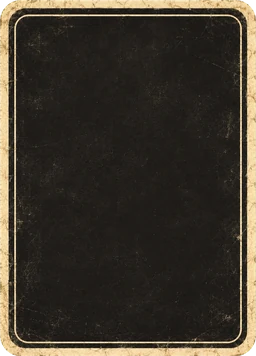
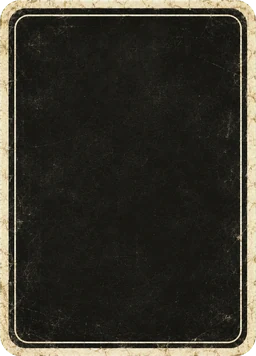
feat(cards): back in exactly the faces' colours with a big emblem; no contour on a selected card
Owner, 2026-11-14: the back's body and cream are mapped onto the face cards'
own two tones, the emblem takes the faces' cream at two thirds of the width,
and a hand card never shows a CSS border or selection outline beside its
printed frame (it tripled on a selected card). The lift and playable glow
mark selection; the keyboard focus ring is kept.

Claude-Session: https://claude.ai/code/session_01XsPB3NUazKsaRfy7iabhzE

diff --git a/web/src/ui/instrument.css b/web/src/ui/instrument.css
@@ -19,10 +19,13 @@ html.futasaku-product :is(.world-chat-who,.match-chat-meta,.match-chat-status,.w
 }
 /* Preserve the fan, lift and tutorial cues; selected cards already carry .lifted. */
 html.futasaku-product #hand:has(.card.lifted) .card:not(.lifted):not(.dim):not(.tutorial-target-card) { opacity: .82; }
-html.futasaku-product #hand .card.lifted:not(:focus-visible) {
-  outline: 1px solid var(--instrument-selection);
-  outline-offset: 1px;
-}
+/* NO CONTOUR ON A CARD, SELECTED OR NOT (owner, 2026-11-14: "never do the contour frame when
+   selected - and especially never double"). The 2026-11-14 cards print their own frame; a CSS
+   border or outline beside it doubled it. The lift (and the playable glow) says "selected"; the
+   keyboard focus ring (:focus-visible) is kept. */
+html.futasaku-product #hand .card,
+html.futasaku-product #hand .card:is(.lifted, .playable) { border-color: transparent; }
+html.futasaku-product #hand .card.lifted:not(:focus-visible) { outline: none; }
 html.reduce-motion :is(.acct-btn,.world-corner,.world-chat-send,.world-chat-mod button,.match-chat button):active:not(:disabled):not([data-pressed="true"]) { transform: none; }
 @media(prefers-reduced-motion:reduce) {
   html.futasaku-product :is(.acct-btn,.world-corner,.world-chat-send,.world-chat-mod button,.match-chat button):active:not(:disabled):not([data-pressed="true"]) { transform:none; }

diff --git a/scripts/build-card-art-2.py b/scripts/build-card-art-2.py
@@ -54,6 +54,23 @@ def card_image(rgba: np.ndarray, box) -> Image.Image:
     return Image.fromarray(np.dstack([np.clip(rgb, 0, 255), al]).round().astype(np.uint8), "RGBA")
 
 
+def tones(a: np.ndarray) -> tuple[np.ndarray, np.ndarray]:
+    """A card's two printed tones: its dark body and its cream (mean RGB of each)."""
+    rgb, al = a[..., :3], a[..., 3]
+    s = rgb.sum(-1)
+    return rgb[(s < 200) & (al > 200)].mean(0), rgb[(s > 500) & (al > 200)].mean(0)
+
+
+def match_faces(card: Image.Image, face: Image.Image) -> Image.Image:
+    """The back in exactly the faces' colours: per channel, the line through the back's two tones
+    (body, cream) onto the face's two tones. Texture and printing stay; only the colour moves."""
+    a = np.asarray(card).astype(float)
+    (bb, bc), (fb, fc) = tones(a), tones(np.asarray(face).astype(float))
+    gain = (fc - fb) / np.maximum(bc - bb, 1.0)
+    a[..., :3] = np.clip(fb + (a[..., :3] - bb) * gain, 0, 255)
+    return Image.fromarray(a.round().astype(np.uint8), "RGBA")
+
+
 def save(image: Image.Image, name: str, quality: int = 86) -> None:
     image.save(OUT / name, "WEBP", quality=quality, method=6)
 
@@ -71,21 +88,18 @@ def main() -> None:
     bomb = keyed("bomb")
     save(card_image(bomb, fa.split(bomb[..., 3] / 255.0, 1, 1)[0]), "bomb.webp", 88)
     back = keyed("back")
-    blank = card_image(back, fa.split(back[..., 3] / 255.0, 1, 1)[0])
+    blank = match_faces(card_image(back, fa.split(back[..., 3] / 255.0, 1, 1)[0]), Image.open(OUT / "moss.webp").convert("RGBA").crop((0, 0) + CELL))
     save(blank, "back-frame.webp", 88)
-    # Today's back carries the emblem centred at ~43% of the card's width: the same here.
+    # The emblem big (owner, 2026-11-14: "we want the emblem big"): two thirds of the card's width.
     emblem = Image.open(ROOT / "web" / "src" / "assets" / "futasaku-emblem.webp").convert("RGBA")
     emblem = emblem.crop(emblem.getchannel("A").getbbox())
-    # In the card's own cream: the colour of the blank back's printed border, sampled.
-    b = np.asarray(blank).astype(float)
-    edge = b[6:14, CELL[0] // 3: 2 * CELL[0] // 3]
-    cream = edge[edge[..., 3] > 200][:, :3]
-    cream = cream[cream.sum(axis=1).argsort()[-len(cream) // 4:]].mean(axis=0)
+    # In the faces' own cream (owner, 2026-11-14: the back exactly the colour of the rest).
+    cream = tones(np.asarray(Image.open(OUT / "moss.webp").convert("RGBA").crop((0, 0) + CELL)).astype(float))[1]
     e = np.asarray(emblem).astype(float)
     lum = (e[..., :3].mean(axis=2) / 255.0)[..., None]
     e[..., :3] = cream * (0.55 + 0.45 * lum)
     emblem = Image.fromarray(e.round().astype(np.uint8), "RGBA")
-    w = round(CELL[0] * 0.43)
+    w = round(CELL[0] * 0.66)
     emblem = emblem.resize((w, round(emblem.height * w / emblem.width)), Image.LANCZOS)
     withEmblem = blank.copy()
     withEmblem.alpha_composite(emblem, ((CELL[0] - emblem.width) // 2, (CELL[1] - emblem.height) // 2))
